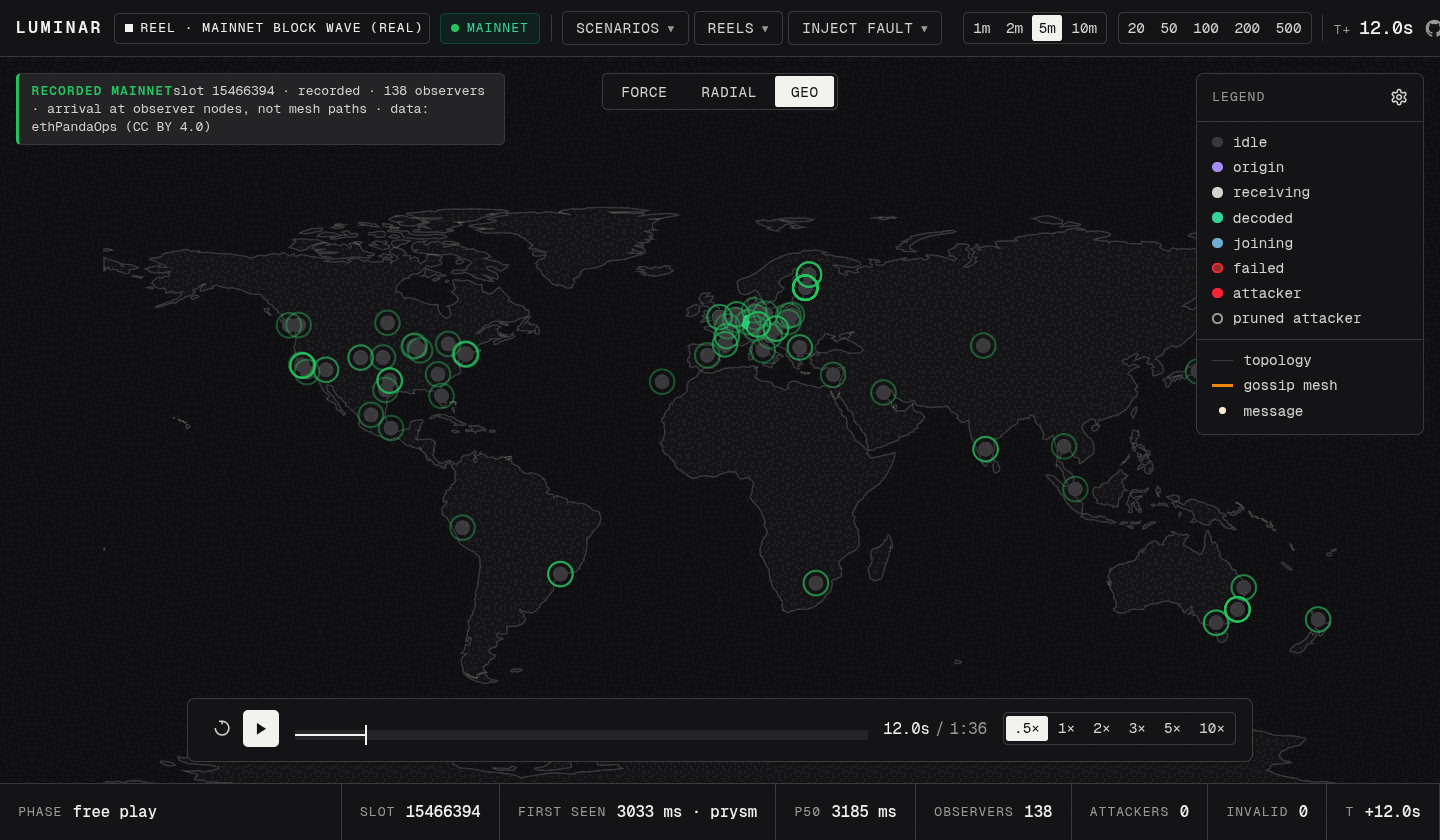
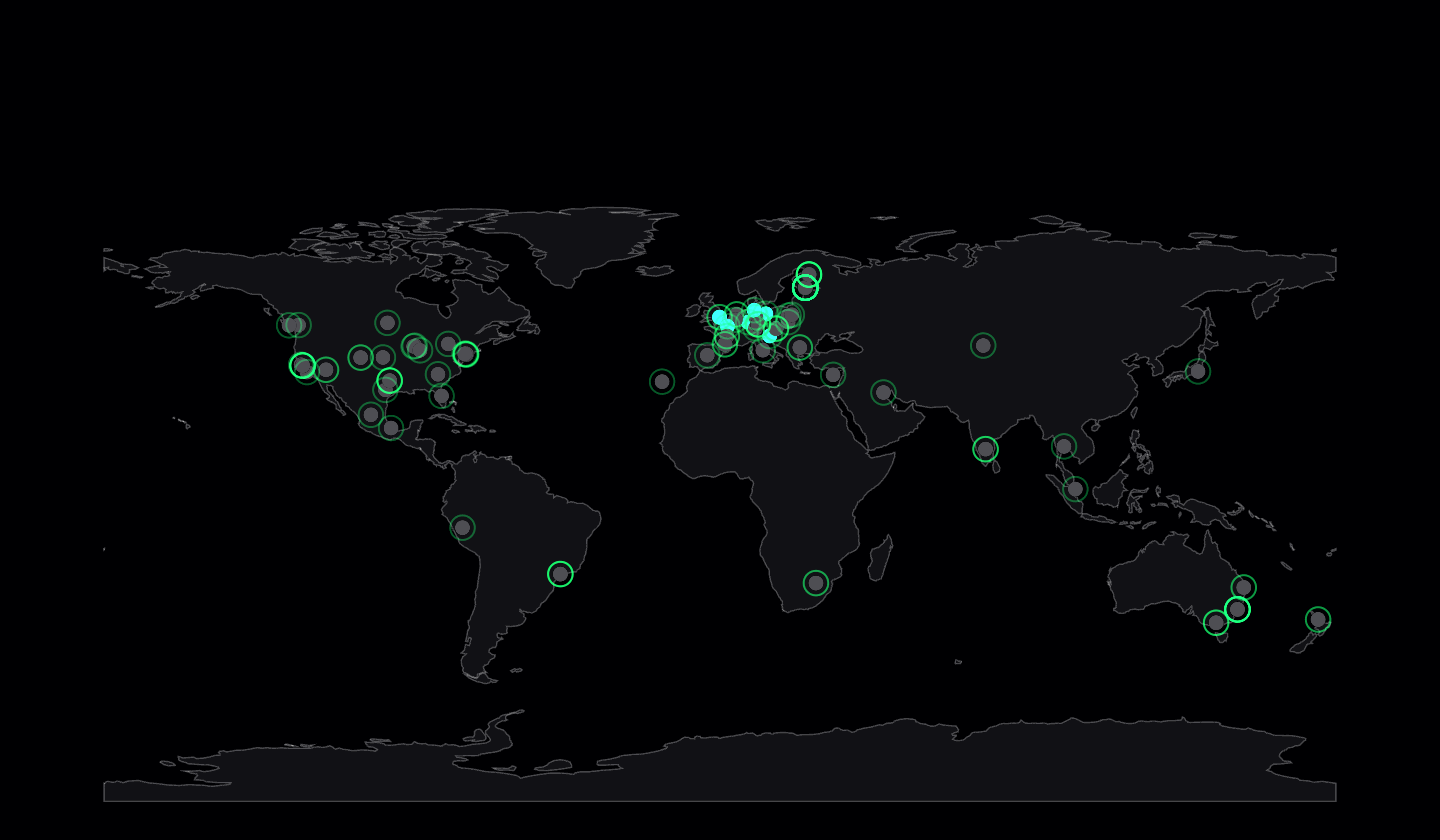
fix(web): task 6.11 review round 1

diff --git a/web/remotion/scenes/08-SameNames.tsx b/web/remotion/scenes/08-SameNames.tsx
@@ -20,7 +20,6 @@ export default function SameNames({ orientation }: SceneProps) {
   const l = LAYOUT['same-names'][orientation]
   const tall = orientation === 'tall'
   const slide = (from: number) => interpolate(f, [0, 12], [from, 0], { extrapolateRight: 'clamp' })
-  const enter = interpolate(f, [0, 12], [0, 1], { extrapolateRight: 'clamp' })
   const names = tall ? SERIES.slice(0, 4) : SERIES
   const px = l.monoPx!
   const namesTop = tall ? l.mesh!.y + l.mesh!.h + 40 : CARD_Y + CARD.h + 60
@@ -28,16 +27,16 @@ export default function SameNames({ orientation }: SceneProps) {
     <>
       {tall ? (
         <DitheredStill src="stills/grafana.png" box={l.mesh!} focus={[0.5, 0.35]} border cell={l.cell}
-          style={{ opacity: enter, transform: `translateX(${slide(-120)}px)` }} />
+          style={{ transform: `translateX(${slide(-120)}px)` }} />
       ) : (
         <>
           <Parallax depth={0.6} pan={f * 0.1} style={{ position: 'absolute', inset: 0 }}>
             <DitheredStill src="stills/grafana.png" box={{ x: 120, y: CARD_Y, ...CARD }} border cell={l.cell}
-              style={{ opacity: enter, transform: `translateX(${slide(-120)}px)` }} />
+              style={{ transform: `translateX(${slide(-120)}px)` }} />
           </Parallax>
           <Parallax depth={0.9} pan={f * 0.1} style={{ position: 'absolute', inset: 0 }}>
             <DitheredStill src="stills/jaeger.png" box={{ x: 1000, y: CARD_Y, ...CARD }} border cell={l.cell}
-              style={{ opacity: enter, transform: `translateX(${slide(120)}px)` }} />
+              style={{ transform: `translateX(${slide(120)}px)` }} />
           </Parallax>
         </>
       )}

diff --git a/web/remotion/scenes/09-Mainnet.tsx b/web/remotion/scenes/09-Mainnet.tsx
@@ -26,7 +26,6 @@ export default function Mainnet({ orientation }: SceneProps) {
       <Parallax depth={0.4} pan={f * 0.1} style={{ position: 'absolute', left: OCEAN.x, top: OCEAN.y, lineHeight: 0 }}>
         <HaloRing size={RING} band={2} />
       </Parallax>
-      <div style={{ position: 'absolute', left: l.caption!.x - 24, top: l.caption!.y - 16, width: l.caption!.w + 40, height: l.caption!.h + 32, background: 'var(--bg)' }} />
       <Fig n={FIG_N.mainnet!} orientation={orientation} box={l.caption!} at={10}>{FIG.mainnet!}</Fig>
     </>
   )
